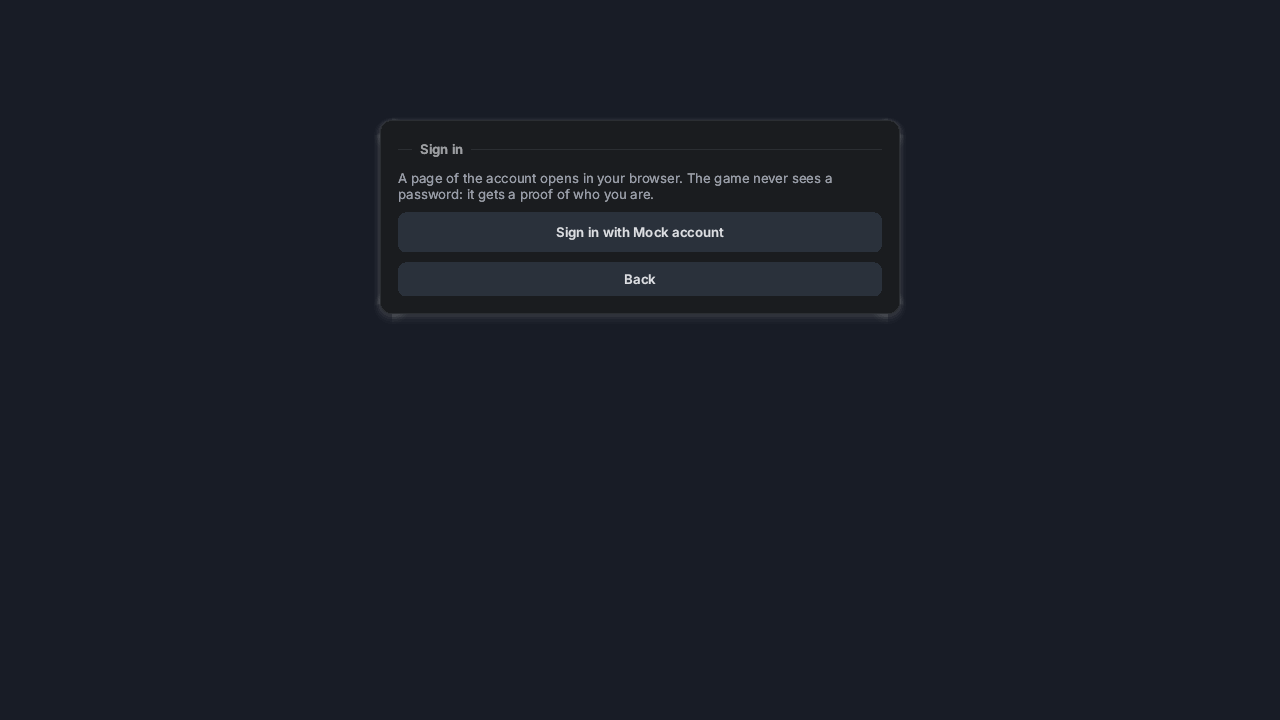
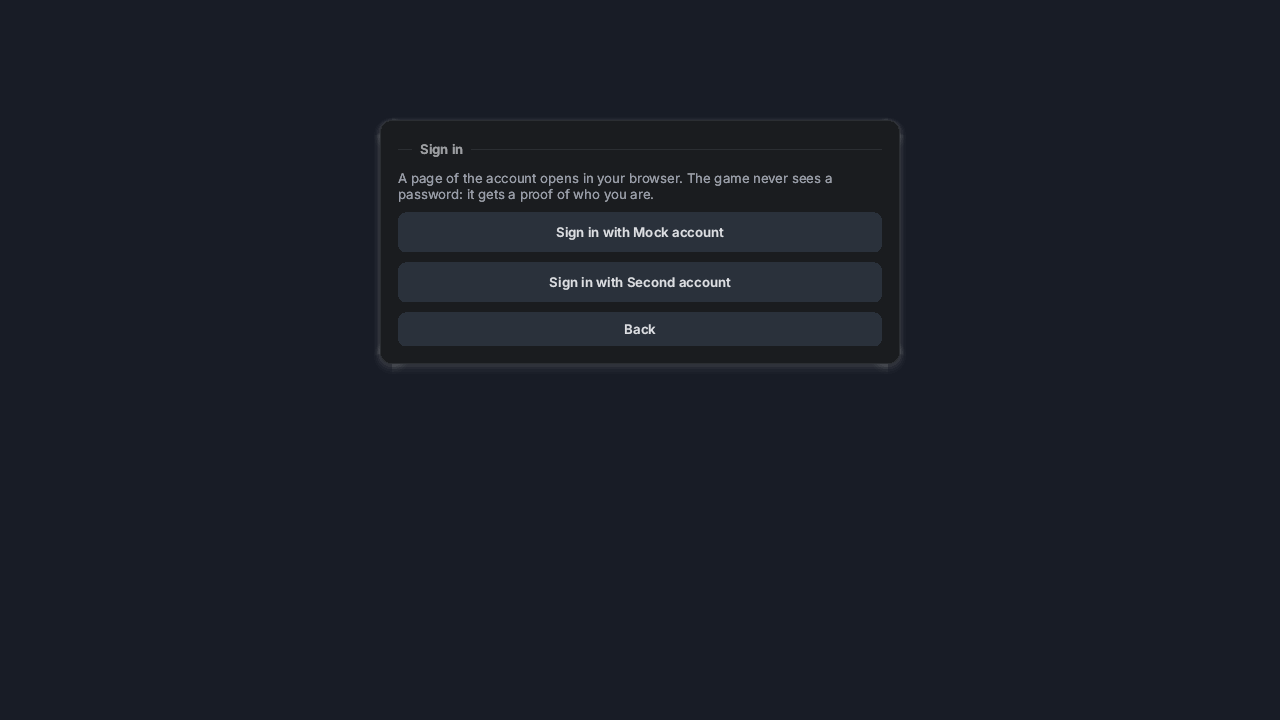
arena: a person with two windows keeps the player; one stored sign in per provider
Found by a person who signed in with Discord in one window (host) and Google in another (guest), closed the
guest window and joined again: the identity of a signed in person is the same in every window, and the module
removed the player by identity when the server noticed that the OLD connection was gone, deleting the player the
new connection had just joined with. The player row now has a connection column (the connection that joined last),
join takes it over and identity_disconnected removes the player only for the connection that owns it (module
rebuilt, schema regenerated, regression test with two connections of one identity).

The store had one file for all providers, so the second window overwrote the sign in of the first and a start
restored whichever wrote last. Every provider now has its own file (oidc.StoreVariant), the one written last is
restored (oidc.StoreModified), sign out and a refused token delete only their own file, and the single file of the
first version is moved to its provider's file. Also tested: a guest that joins again after the first one vanished
without goodbye.

Claude-Session: https://claude.ai/code/session_01VmEee8L8hufaEg5kRznT4c

Changed region(s): [[0.3125, 0.3667, 0.6875, 0.4583]]

diff --git a/spacetimedb/arena/AGENTS.md b/spacetimedb/arena/AGENTS.md
@@ -23,3 +23,5 @@ What is not obvious from the code. The rules for every library are in [../../AGE
 - Pictures wait 15 frames before a capture: widgets fade on hover and focus, and a capture taken in the middle of a fade differs by a few hundred pixels from run to run.
 - Signing in (`signin.odin`, screens in `screens.odin`, test `script_signin.odin`): the start screen has Sign in / Sign out; the accounts are the ones of `oidc/providers/providers.local.txt` with a client id (Google, Discord, SpacetimeAuth) or `config.signin_providers`. The login is `oidc.LoginBegin/LoginPoll` once per update (phases SIGN_IN, SIGNING_IN, SIGN_IN_WAIT); on DONE `AuthSessionFrom` keeps the tokens, the name of the account (`LoginDisplayName`) becomes the player name, and `GameOpen(..., token, refresh, refresh_user)` connects with the ID token: the identity in the database is then the one of the person (same on every server and computer), an anonymous player gets a new one every time. The server has to reach the provider (internet) to check the token. The test runs a provider of our own (`oidc/mock`), plays the browser, and starts real servers: two solo games give the same identity, an anonymous one another. `oidc.BrowserLauncher` is replaced in the script (no real browser), and `session.ClearIdle` (leaving a game) also removes `spacetimedb.StreamIdle`, so the script puts its hook back before each game. Three pictures: signin_providers, signin_waiting (the address is masked), signed_in.
 - The sign in is remembered (`signinSave`, `signinRestoreBegin`, `signinRestore` in `signin.odin`, `config.signin_store`) ONLY where `oidc.StoreAvailable()`: the refresh token goes, encrypted by the system (DPAPI, see oidc/README.md "What is stored"), to `oidc.StorePath("odin_utilities_arena")` after a login and whenever the provider rotates it (`signinKeepStored`, every update); the next start restores the account without the browser (phase SIGNING_IN with `signin.restoring`), Sign out deletes the file, a refused token deletes it and says so, an unreachable provider keeps it; where there is no protection the person is told that the next start asks again. The read buffers are wiped. The default path is set in `parseArguments` only when not `kit.DEMO_TEST`: a stored login of the person who runs the tests or the pictures must not change them; the script sets a path of its own (`arena_test_signin_store/`) and its stored-login checks pass trivially without a protection. Covered by `script_signin.odin`: written (the file shows no token, name or provider), restored after a restart (same identity, no browser, rotated token), sign out, revoked, offline, another client id, garbage file.
+- The identity of a signed in person is the same in every window and every game, so the module cannot assume one connection per identity: the player row has a `connection` column (the connection that joined last, `ctx.connection`), `join` takes the row over, and `identity_disconnected` removes the player only when the disconnecting connection is the owner. Before this, closing a window and joining again deleted the NEW player when the server noticed the old connection was gone (found by a person with two windows; `test_a_player_who_comes_back_is_not_removed_by_the_old_connection`). Changing the table means: rebuild the module (`odin run spacetimedb/tool/build_module -- spacetimedb/arena/module spacetimedb/bin/arena-odin.wasm`) and regenerate `schema/` (`odin run spacetimedb/arena/tool/schema`).
+- Every provider has its own store file (`signin_<provider>.txt`, `oidc.StoreVariant`): two windows signed in with different accounts do not replace each other's file; at the start the provider whose file was written last (`oidc.StoreModified`) is restored; Sign out and a refused token delete only the file of that provider; the single `signin.txt` of the first version is moved to the file of its provider (`signinMigrate`). Two windows with the SAME account share one file: a provider that rotates refresh tokens gives the token to the window that refreshes first, the other keeps using its ID token until the server asks for a new one.

diff --git a/oidc/README.md b/oidc/README.md
@@ -35,7 +35,7 @@ A client id is what the provider gives an application you register with it. It i
 6. **Use it in code:** `PresetConfig(.DISCORD, client_id)` (or `ClientConfigRead(text, "discord", ...)` for the file) gives the `ClientConfig` for `LoginBegin`; GitHub uses `PresetMetadataGithub` and `DeviceStart`.
 
 ## What is stored (`store.odin`)
-A program that wants the person to sign in once keeps the **refresh token** between runs. A refresh token is a credential, so it is **never a plain file**: the whole content (token, provider, issuer, client id, name) is encrypted by the operating system with a key of the logged in user. On **Windows** this is DPAPI (`CryptProtectData`, with an extra secret of the library as entropy): a copy of the file, a backup, a sync folder or a stolen disk gives nothing, because it cannot be decrypted on another computer or under another account. The file is in `<configuration folder of the user>/<app>/signin.txt` (`%LOCALAPPDATA%`, not the roaming folder), made readable by the user only, and holds no ID token, no access token and no client secret; the buffers that held the token are wiped after use. It is replaced when the provider rotates the token, and deleted when the person signs out or the provider refuses it (an unreachable provider keeps it: being offline is not signing out).
+A program that wants the person to sign in once keeps the **refresh token** between runs. A refresh token is a credential, so it is **never a plain file**: the whole content (token, provider, issuer, client id, name) is encrypted by the operating system with a key of the logged in user. On **Windows** this is DPAPI (`CryptProtectData`, with an extra secret of the library as entropy): a copy of the file, a backup, a sync folder or a stolen disk gives nothing, because it cannot be decrypted on another computer or under another account. The file is in `<configuration folder of the user>/<app>/` (`%LOCALAPPDATA%`, not the roaming folder), one per provider (`StoreVariant(path, label)`: `signin.txt` becomes `signin_google.txt`), so that windows signed in with different accounts do not replace each other's; `StoreModified` tells which was written last, made readable by the user only, and holds no ID token, no access token and no client secret; the buffers that held the token are wiped after use. It is replaced when the provider rotates the token, and deleted when the person signs out or the provider refuses it (an unreachable provider keeps it: being offline is not signing out).
 
 What it does **not** stop: a program that runs as the same user on the same computer can ask Windows to decrypt (as it could read the memory of the game). It protects the file at rest, like the saved passwords of a browser.
 

diff --git a/oidc/AGENTS.md b/oidc/AGENTS.md
@@ -19,3 +19,4 @@ What is not obvious from the code. The rules for every library are in [../AGENTS
 - Discord's user info fields (seen live): email, email_verified, locale, nickname, picture, preferred_username, sub.
 - Client authentication at the token endpoint (`tokenRequest`): with a secret, HTTP Basic first, then the secret in the form, then no secret at all (a PUBLIC client, SpacetimeAuth `none`, is refused when it sends one: found live, the secret in the settings file made `invalid_client`). `Tokens.client_auth` says which worked and `tool/login` tells the person to delete a secret that is not needed. SpacetimeAuth: ID tokens last 15 minutes, a refresh token needs the `offline_access` scope (in the preset), its user info/ID token name is `Anonymous User` for the anonymous login method.
 - `store.odin` keeps the refresh token between runs ENCRYPTED: `protect`/`unprotect` are DPAPI on Windows (`protect_windows.odin`, `Crypt32`, entropy `STORE_ENTROPY`, UI forbidden) and always false elsewhere (`protect_other.odin`): there `StoreAvailable()` is false and nothing is stored, never a plain file (macOS Keychain and the Linux Secret Service are the open work, see TODO.md). The file is `STORE_MAGIC` + the ciphertext; a plain file of the first format (`oidc-store-1`) is overwritten and deleted when read; the buffers are wiped (`StoreWipe`); a value with a line break is refused. `spacetimedb.AuthSessionFromRefresh` turns it back into a verified session (`AUTH_UNREACHABLE` is the only error that is no answer of the provider). The mock has `rotate_refresh` and `RevokeRefreshTokens`.
+- One store file per provider (`StoreVariant`), the newest by `StoreModified` is the default at the next start: a single shared file made the window that signed in last overwrite the sign in of the other window.

diff --git a/spacetimedb/arena/README.md b/spacetimedb/arena/README.md
@@ -36,3 +36,5 @@ What to try next: TODO.md.
 **Sign in** on the start screen opens a page of your account (Google, Discord or SpacetimeAuth, the ones with a client id in `oidc/providers/providers.local.txt`, see `oidc/README.md`, "Getting a client id"). The game never sees a password. When you are back, the name of the account is your name in the game and your identity in the database is the one of your account: the same player in every game, on every computer. Without signing in you get a new anonymous identity each time. The server that runs the game has to reach the provider to check your token (internet).
 
 **Remembered:** after you sign in, the game keeps the refresh token of your account so that you sign in once. It is **encrypted by Windows** (DPAPI) before it is written to `%LOCALAPPDATA%\odin_utilities_arena\signin.txt`: the file is useless on another computer or under another account, and holds no readable token, name or provider. A program running as you on this computer can still ask Windows to decrypt it, like the saved passwords of a browser. On macOS and Linux nothing is kept yet and you sign in at every start (the Keychain and the Secret Service are not written). **Sign out** deletes the file; to end the session at the provider revoke the app in your account settings.
+
+You can run two windows on one computer, also with different accounts (one signed in with Discord, another with Google): each account has its own stored sign in, and the next start restores the one you used last. The same account in two windows is one player (the second window takes it over).
